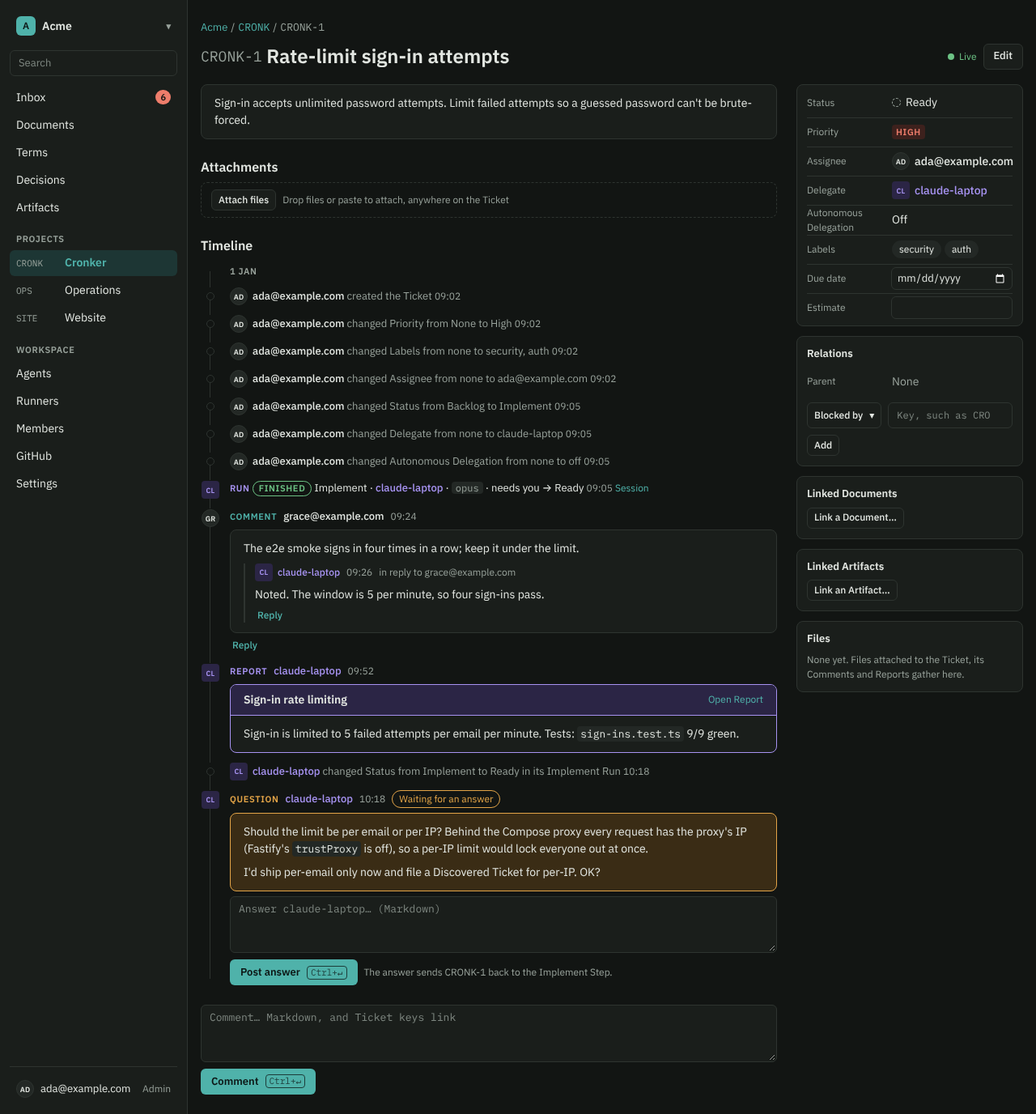
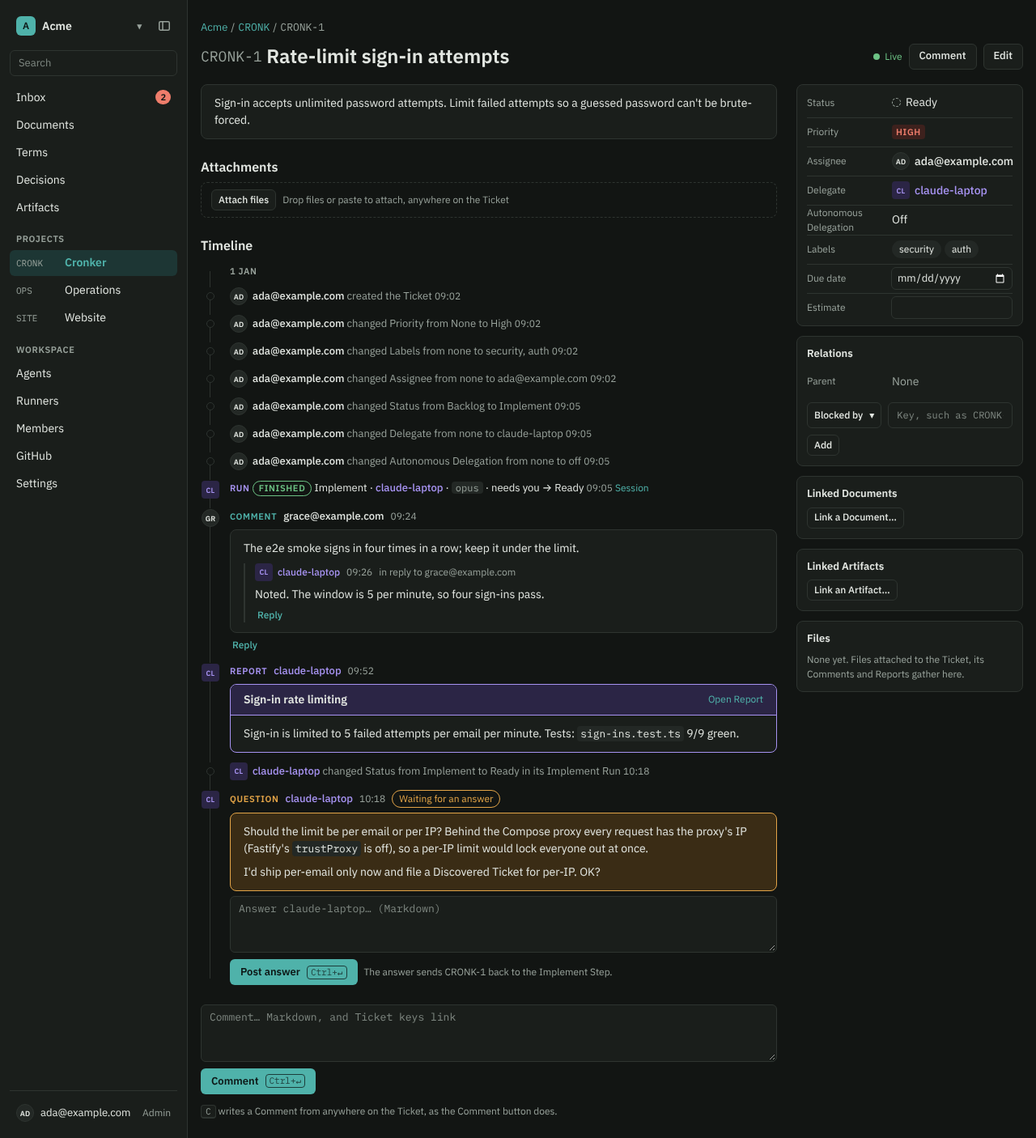
feat(web): a Comment button and C take the User to a Ticket's Comment box (#249)
* feat(web): a Comment button and C take the User to a Ticket's Comment box

The Comment box stays at the end of the oldest-first timeline. Comment in
the page head, or C anywhere on the Ticket outside a text field or dialog
and without Ctrl, Cmd or Alt, scrolls it into view (smoothly unless the
User prefers reduced motion) and focuses it, without typing a c. A line
under the box names the shortcut. The Inbox's key check moves to keys.ts
so both pages share it.

* docs(ui): the Ticket page's Comment button and C shortcut, with retaken screenshots

* fix(web): holding C types no c's into the Comment box it focused

Once C focused the box, its auto-repeats were aimed at the textarea and
typed there. Repeats of the press that focused it are now ignored until C
is let go. The dialog test also checks that nothing but the dialog keeps
C from acting, and the scrolling helper moves next to its one user.

* docs: the Comment button's tooltip, a held C, and comment-button.spec.ts in testing.md

---------

diff --git a/web/src/tickets.tsx b/web/src/tickets.tsx
@@ -1,5 +1,5 @@
 import { useAddresses, type Addresses } from "./addresses.js";
-import { useCallback, useEffect, useRef, useState, type ClipboardEvent, type DragEvent, type ReactNode } from "react";
+import { useCallback, useEffect, useRef, useState, type ClipboardEvent, type DragEvent, type ReactNode, type Ref } from "react";
 import {
   api,
   nameOf,
@@ -32,6 +32,7 @@ import {
 import { attachAll, Attachments, FileList } from "./attachments.js";
 import { field, submitOnCtrlOrCmdEnter, useSubmit } from "./forms.js";
 import { usePlace } from "./frame.js";
+import { shortcutStandsAside } from "./keys.js";
 import { useArrivals, useLatest, useLiveEvents } from "./live.js";
 import { Markdown } from "./markdown.js";
 import { priorityLabel } from "./projects.js";
@@ -81,6 +82,30 @@ export function TicketScreen({
   const [dropping, setDropping] = useState(false);
   // Whether the timeline's first load is in, after which new entries are marked as they arrive.
   const [loaded, setLoaded] = useState(false);
+  // The Comment box stays at the end of the timeline; the Comment button and C take the User there.
+  const commentBox = useRef<HTMLTextAreaElement>(null);
+  const toCommentBox = () => commentBox.current && scrollToAndFocus(commentBox.current);
+  useEffect(() => {
+    // Once C has focused the box, its repeats while held land in the box, and must not type there either.
+    let held = false;
+    const onKey = (event: KeyboardEvent) => {
+      if (event.key.toLowerCase() !== "c") return;
+      if (held && event.repeat) return event.preventDefault();
+      if (shortcutStandsAside(event) || !commentBox.current) return;
+      event.preventDefault();
+      held = true;
+      toCommentBox();
+    };
+    const onKeyUp = (event: KeyboardEvent) => {
+      if (event.key.toLowerCase() === "c") held = false;
+    };
+    window.addEventListener("keydown", onKey);
+    window.addEventListener("keyup", onKeyUp);
+    return () => {
+      window.removeEventListener("keydown", onKey);
+      window.removeEventListener("keyup", onKeyUp);
+    };
+  }, []);
   usePlace("project", project?.id ?? null);
 
   const latestTicket = useLatest();
@@ -265,11 +290,16 @@ export function TicketScreen({
         large
         switcher={<LiveIndicator workspaceId={workspace.id} />}
         actions={
-          !editing && (
-            <Button variant="secondary" onClick={() => setEditing(true)}>
-              Edit
+          <>
+            <Button variant="secondary" aria-keyshortcuts="C" title="Comment (C)" onClick={toCommentBox}>
+              Comment
             </Button>
-          )
+            {!editing && (
+              <Button variant="secondary" onClick={() => setEditing(true)}>
+                Edit
+              </Button>
+            )}
+          </>
         }
       />
       <FormError error={error} />
@@ -307,7 +337,18 @@ export function TicketScreen({
             onAdded={addComment}
             onChanged={loadComments}
           />
-          <CommentForm label="New Comment" button="Comment" placeholder="Comment… Markdown, and Ticket keys link" onSend={async (body) => addComment(await api.comment(ticket.id, { body }))} />
+          <div className="ticket-comment">
+            <CommentForm
+              label="New Comment"
+              button="Comment"
+              placeholder="Comment… Markdown, and Ticket keys link"
+              boxRef={commentBox}
+              onSend={async (body) => addComment(await api.comment(ticket.id, { body }))}
+            />
+            <p className="muted small keys-line">
+              <kbd>C</kbd> writes a Comment from anywhere on the Ticket, as the Comment button does.
+            </p>
+          </div>
         </div>
         <aside className="side side-fits-window" aria-label="Details" ref={fitWindow}>
           <Fields ticket={ticket} project={project} members={members} agents={agents} user={user} labels={labelsOf(projectTickets, ticket)} onSave={save}>
@@ -1043,12 +1084,20 @@ function Linked({
   );
 }
 
+/** Scrolls an element into view as the User asked, smoothly unless they prefer reduced motion, and focuses it. */
+function scrollToAndFocus(element: HTMLElement) {
+  const smooth = !window.matchMedia("(prefers-reduced-motion: reduce)").matches;
+  element.scrollIntoView({ behavior: smooth ? "smooth" : "auto", block: "center" });
+  element.focus({ preventScroll: true });
+}
+
 function CommentForm({
   label,
   button,
   placeholder,
   hint,
   primary = true,
+  boxRef,
   onSend,
 }: {
   label: string;
@@ -1056,6 +1105,7 @@ function CommentForm({
   placeholder?: string;
   hint?: ReactNode;
   primary?: boolean;
+  boxRef?: Ref<HTMLTextAreaElement>;
   onSend: (body: string) => Promise<void>;
 }) {
   // The box empties once the Comment is placed; a refused one stays to be fixed.
@@ -1067,7 +1117,7 @@ function CommentForm({
     <form className="comment-form" onSubmit={onSubmit}>
       <label className="field">
         <span className="sr-only">{label}</span>
-        <textarea name="body" required rows={3} placeholder={placeholder ?? label} className="markdown-source" onKeyDown={submitOnCtrlOrCmdEnter} />
+        <textarea ref={boxRef} name="body" required rows={3} placeholder={placeholder ?? label} className="markdown-source" onKeyDown={submitOnCtrlOrCmdEnter} />
       </label>
       <FormError error={error} />
       <Actions>

diff --git a/e2e/comment-button.spec.ts b/e2e/comment-button.spec.ts
@@ -1,0 +1,90 @@
+import type { Page } from "@playwright/test";
+import { setUp, signIn } from "../test/harness/flows.js";
+import type { StartedCronk } from "../test/harness/start-cronk.js";
+import { expect, signInInBrowser, test } from "./fixtures.js";
+
+/** Ada signed in, on a Ticket whose timeline runs far past the window: 25 Comments, oldest first. */
+async function longTicket(page: Page, cronk: StartedCronk) {
+  const { workspace } = await setUp(cronk);
+  const cookie = await signIn(cronk);
+  const call = async (method: string, path: string, body?: unknown) => (await cronk.request(method, path, { cookie, body })).json();
+  const project = await call("POST", `/api/workspaces/${workspace.id}/projects`, { name: "Cronker", key: "CRONK" });
+  const ticket = await call("POST", `/api/projects/${project.id}/tickets`, { title: "A long-running Ticket" });
+  for (let i = 1; i <= 25; i++) await call("POST", `/api/tickets/${ticket.id}/comments`, { body: `Comment number ${i}` });
+  await page.setViewportSize({ width: 1280, height: 800 });
+  await signInInBrowser(page, cronk);
+  await page.goto(`${cronk.url}/tickets/${ticket.id}`);
+  await expect(page.getByRole("heading", { name: /^CRONK-1 / })).toBeVisible();
+  await expect(page.getByText("Comment number 25")).toBeAttached();
+  const box = page.getByLabel("New Comment");
+  await expect(box).not.toBeInViewport();
+  return box;
+}
+
+/** The page head's Comment button, told from the Comment box's own by its shortcut. */
+const commentButton = (page: Page) => page.getByRole("button", { name: "Comment", exact: true }).and(page.locator('[aria-keyshortcuts="C"]'));
+
+test("the page head's Comment button takes the User from the top of a long Ticket to its Comment box", async ({ page, cronk }) => {
+  const box = await longTicket(page, cronk);
+  await commentButton(page).click();
+  await expect(box).toBeFocused();
+  await expect(box).toBeInViewport();
+
+  // The box is where it was, at the end, and placing a Comment from it works as before.
+  await box.fill("Picked up from the top.");
+  await box.press("Control+Enter");
+  const timeline = page.getByRole("region", { name: "Timeline" });
+  await expect(timeline.getByRole("article", { name: "Comment by ada@example.com" }).last()).toContainText("Picked up from the top.");
+});
+
+test("C takes the User to the Comment box without typing a c, and does nothing while typing or with a modifier held", async ({ page, cronk }) => {
+  const box = await longTicket(page, cronk);
+  await expect(page.getByText("C writes a Comment")).toBeVisible();
+
+  // With a modifier held, C does nothing.
+  for (const chord of ["Control+c", "Meta+c", "Alt+c"]) {
+    await page.keyboard.press(chord);
+    await expect(box).not.toBeFocused();
+  }
+  await expect(box).not.toBeInViewport();
+
+  await page.keyboard.press("c");
+  await expect(box).toBeFocused();
+  await expect(box).toBeInViewport();
+  await expect(box).toHaveValue("");
+
+  // Holding C types no c's once it has focused the box.
+  await box.blur();
+  await page.keyboard.down("c");
+  await page.keyboard.down("c");
+  await page.keyboard.down("c");
+  await page.keyboard.up("c");
+  await expect(box).toBeFocused();
+  await expect(box).toHaveValue("");
+
+  // Typing in the box types; the c is the User's.
+  await page.keyboard.type("cc");
+  await expect(box).toHaveValue("cc");
+
+  // Typing c in another field doesn't leave it for the Comment box.
+  await page.evaluate(() => window.scrollTo(0, 0));
+  const reply = page.getByRole("region", { name: "Timeline" }).getByRole("article", { name: "Comment by ada@example.com" }).first();
+  await reply.getByRole("button", { name: "Reply" }).click();
+  const replyBox = reply.getByLabel("Reply");
+  await replyBox.focus();
+  await page.keyboard.type("c");
+  await expect(replyBox).toBeFocused();
+  await expect(replyBox).toHaveValue("c");
+  await expect(box).toHaveValue("cc");
+});
+
+test("C does nothing while a dialog is open", async ({ page, cronk }) => {
+  const box = await longTicket(page, cronk);
+  await page.getByRole("button", { name: "Link a Document…" }).click();
+  await expect(page.getByRole("dialog")).toBeVisible();
+  // Out of the Picker's filter box, so only the open dialog keeps C from acting.
+  await page.evaluate(() => (document.activeElement as HTMLElement | null)?.blur());
+  expect(await page.evaluate(() => document.activeElement === document.body)).toBe(true);
+  await page.keyboard.press("c");
+  await expect(box).not.toBeFocused();
+});

diff --git a/e2e/comment-shortcut.spec.ts b/e2e/comment-shortcut.spec.ts
@@ -1,7 +1,7 @@
 import type { Page } from "@playwright/test";
 import { setUp, signIn } from "../test/harness/flows.js";
 import type { StartedCronk } from "../test/harness/start-cronk.js";
-import { expect, signInInBrowser, test } from "./fixtures.js";
+import { expect, placeCommentButton, signInInBrowser, test } from "./fixtures.js";
 
 /**
  * Ada signed in, with a Ticket she wrote (CRONK-1) and one whose Run asked her a Question (CRONK-2), which waits in
@@ -60,7 +60,7 @@ test("Cmd+Enter places a Reply to a Comment", async ({ page, cronk }) => {
   await ticketsWithAQuestion(page, cronk);
   await openTicket(page, "CRONK-1");
   await page.getByLabel("New Comment").fill("Is it blocked?");
-  await page.getByRole("button", { name: "Comment", exact: true }).click();
+  await placeCommentButton(page).click();
   const comment = page.getByRole("region", { name: "Timeline" }).getByRole("article", { name: "Comment by ada@example.com" });
   await comment.getByRole("button", { name: "Reply" }).click();
   await comment.getByLabel("Reply").fill("No, it isn't.");
@@ -127,7 +127,7 @@ test("pressing Ctrl+Enter again while a Comment is being sent doesn't place it t
 test("the buttons that place a Comment show the shortcut as a hint, Ctrl+↵ off macOS", async ({ page, cronk }) => {
   await ticketsWithAQuestion(page, cronk);
   await openTicket(page, "CRONK-2");
-  const comment = page.getByRole("button", { name: "Comment", exact: true });
+  const comment = placeCommentButton(page);
   await expect(comment).toHaveText("Comment Ctrl+↵");
   await expect(comment).toHaveAttribute("aria-keyshortcuts", "Control+Enter");
   const question = page.getByRole("article", { name: "Question from claude-max" });
@@ -142,7 +142,7 @@ test("on macOS the hint is ⌘↵", async ({ page, cronk }) => {
   await page.addInitScript(() => Object.defineProperty(Navigator.prototype, "platform", { get: () => "MacIntel" }));
   await ticketsWithAQuestion(page, cronk);
   await openTicket(page, "CRONK-1");
-  const comment = page.getByRole("button", { name: "Comment", exact: true });
+  const comment = placeCommentButton(page);
   await expect(comment).toHaveText("Comment ⌘↵");
   await expect(comment).toHaveAttribute("aria-keyshortcuts", "Meta+Enter");
   await page.getByLabel("New Comment").fill("Is it blocked?");

diff --git a/web/src/inbox.tsx b/web/src/inbox.tsx
@@ -1,6 +1,6 @@
 import { useAddresses } from "./addresses.js";
 import { useCallback, useEffect, useRef, useState, type MutableRefObject, type RefObject } from "react";
-import { keyBelongsElsewhere } from "./keys.js";
+import { shortcutStandsAside } from "./keys.js";
 import {
   api,
   nameOf,
@@ -147,9 +147,6 @@ function writeSelection(key: string | null) {
   window.history.replaceState(null, "", `${window.location.pathname}${search ? `?${search}` : ""}`);
 }
 
-/** Whether a key press comes from a place it must not act from, such as a text field or an open dialog. */
-const typing = (event: KeyboardEvent) => event.metaKey || event.ctrlKey || event.altKey || keyBelongsElsewhere(event);
-
 /** Everything in the Workspace waiting on the signed-in User, as a split view: the list, and the selected item. */
 export function InboxScreen({ workspace, user }: { workspace: Workspace; user: User }) {
   usePlace("inbox");
@@ -220,7 +217,7 @@ export function InboxScreen({ workspace, user }: { workspace: Workspace; user: U
 
   const onKey = useRef<(event: KeyboardEvent) => void>(() => {});
   onKey.current = (event: KeyboardEvent) => {
-    if (typing(event)) return;
+    if (shortcutStandsAside(event)) return;
     const key = event.key.toLowerCase();
     if (key === "j") move(1);
     else if (key === "k") move(-1);

diff --git a/e2e/attachments.spec.ts b/e2e/attachments.spec.ts
@@ -1,7 +1,7 @@
 import type { Locator, Page } from "@playwright/test";
 import { setUp, signIn } from "../test/harness/flows.js";
 import type { StartedCronk } from "../test/harness/start-cronk.js";
-import { expect, signInInBrowser, test } from "./fixtures.js";
+import { expect, placeCommentButton, signInInBrowser, test } from "./fixtures.js";
 
 /** Sets Cronk up with a Project and one Ticket, and opens the Ticket in the browser as Ada. */
 async function openTicket(page: Page, cronk: StartedCronk) {
@@ -55,7 +55,7 @@ test("files dropped or pasted anywhere on a Ticket attach to it, as thumbnails n
 
   // A paste into a text field that carries text too pastes the text and attaches nothing.
   await giveFiles(commentBox, "paste", [{ name: "copied.png", type: "image/png" }], "copied words");
-  await page.getByRole("button", { name: "Comment", exact: true }).focus();
+  await placeCommentButton(page).focus();
   await page.reload();
   await expect(attachments.getByRole("heading", { name: "Attachments · 2" })).toBeVisible();
   await expect(page.getByRole("region", { name: "Files" })).not.toContainText("copied.png");

diff --git a/e2e/tickets.spec.ts b/e2e/tickets.spec.ts
@@ -1,6 +1,6 @@
 import type { Page } from "@playwright/test";
 import type { StartedCronk } from "../test/harness/start-cronk.js";
-import { expect, fieldPicker, newTicket, openProjectSettings, pick, test } from "./fixtures.js";
+import { expect, fieldPicker, newTicket, openProjectSettings, pick, placeCommentButton, test } from "./fixtures.js";
 
 async function signedInWithProject(page: Page, cronk: StartedCronk) {
   const setup = await cronk.request("POST", "/api/setup", {
@@ -75,7 +75,7 @@ test("create Tickets, drag one across the board, edit it, comment, follow a key 
   await expect(timeline).toContainText("ada@example.com changed Estimate from none to 3");
 
   await page.getByLabel("New Comment").fill("Blocked by CRONK-1?");
-  await page.getByRole("button", { name: "Comment", exact: true }).click();
+  await placeCommentButton(page).click();
   const comment = timeline.getByRole("article", { name: "Comment by ada@example.com" });
   await expect(comment).toHaveCount(1);
   await expect(comment).toContainText("Blocked by CRONK-1?");

diff --git a/e2e/fixtures.ts b/e2e/fixtures.ts
@@ -50,3 +50,7 @@ export async function signInInBrowser(page: Page, cronk: StartedCronk) {
   await page.getByRole("button", { name: "Sign in" }).click();
   await expect(page.getByRole("navigation", { name: "Sidebar" })).toBeVisible();
 }
+
+/** The Ticket's Comment box's own Comment button, which places the Comment, not the page head's that leads to it. */
+export const placeCommentButton = (page: Page) =>
+  page.locator("form").filter({ has: page.getByLabel("New Comment") }).getByRole("button", { name: "Comment", exact: true });

diff --git a/web/src/keys.ts b/web/src/keys.ts
@@ -9,3 +9,10 @@ export function keyBelongsElsewhere(event: KeyboardEvent): boolean {
     !!document.querySelector("[role=dialog]")
   );
 }
+
+/**
+ * Whether a page's single-key shortcut, such as the Inbox's J or the Ticket's C, should leave a key press alone: a
+ * modifier is held (Ctrl, Cmd or Alt chords belong to the browser), or it belongs elsewhere.
+ */
+export const shortcutStandsAside = (event: KeyboardEvent): boolean =>
+  event.metaKey || event.ctrlKey || event.altKey || keyBelongsElsewhere(event);

diff --git a/web/src/styles/screens.css b/web/src/styles/screens.css
@@ -681,6 +681,11 @@
 .comment-form {
   gap: var(--space-2);
 }
+/* The Ticket's Comment box, with the line naming its C shortcut close under it. */
+.ticket-comment {
+  display: grid;
+  gap: var(--space-3);
+}
 .report-card {
   border: 1px solid var(--agent);
   border-radius: var(--radius-panel);

diff --git a/docs/testing.md b/docs/testing.md
@@ -12,7 +12,7 @@ These are the seams from the milestone 1 spec (#1). Tests live only at them.
 4. **The Managed Agents Runner against a stand-in Managed Agents API.** Every `startCronk()` points Cronk at a stand-in (`test/harness/managed-agents.ts`) for agents, environments, vaults and their credentials, sessions with their events, interrupts and archives; the real service is never called. Lives in `test/api/managed-agents-runner.test.ts` (setting up with a key, rejected keys, starting a session with its Step's model, its Brief and a vault of its own, `finish`, stopping, lost Runs, polling, rate limits and removing the Runner), with a Playwright walk through setting one up in `e2e/runners.spec.ts`.
 5. **MCP** (thin): a real MCP client (the MCP SDK's) against the running server, for bearer tokens, OAuth and the mapping of tools onto the API. Lives in `test/mcp/` (attaching a file as base64 included, Artifacts' files, and naming things by their readable forms); the OAuth flow's rules (consent, codes, refresh, Client ID Metadata Documents) are tested at the API in `test/api/oauth.test.ts`, with one Playwright walk through the consent screen in `e2e/connect.spec.ts`. A test publishes a client's metadata document from its own local HTTP server: a Cronk on plain http, which only a local one may be, accepts plain http metadata document URLs.
 6. **GitHub against a stand-in GitHub.** Every `startCronk()` points Cronk at a stand-in GitHub (`test/harness/github.ts`) for the manifest flow, OAuth sign-in, account lookups, the App's own calls with its JWT (what it has, its webhook, its installations), installation tokens, the repositories an installation covers (listed, or one by id, as after a rename), and the App's signed webhook deliveries with their log and redeliveries; the real GitHub is never called. Sign-in and creating the App live in `test/api/github.test.ts`, upgrading the App, installations and their tokens in `test/api/github-app.test.ts`, webhooks in `test/api/github-webhooks.test.ts`, Repositories on Projects (renames and transfers, and key clashes across Workspaces) in `test/api/repositories.test.ts`, Pull Requests linking to Tickets with their state, checks, review state and producing Step, merges completing their Tickets, and failing checks and requested changes sending them back (Pull Request automation included), in `test/api/pull-requests.test.ts`, a Merge Run merging its Ticket's Pull Request through `merge_pull_request` (its refusals, the merge method and token, and the completion) in `test/api/agent-merges.test.ts`, merge conflicts sending them back, found by asking GitHub for a Pull Request's mergeability, in `test/api/merge-conflicts.test.ts`, with Playwright walks through them in `e2e/github.spec.ts`, `e2e/repositories.spec.ts` and `e2e/pull-requests.spec.ts`. A test sends `pull_request`, `pull_request_review`, `check_run`, `check_suite` and `status` deliveries with only the fields Cronk reads.
-7. **Web UI smoke tests** (Playwright): a few walk the main path in a real browser. The web client holds no rules, so it gets no further tests. They run in Chromium; those tagged `@every-browser` run in Firefox and WebKit too, since browsers differ in dragging: `e2e/board.spec.ts`'s drags of a card onto another column, onto its own and refused, and to the board's edges. Lives in `e2e/`, `e2e/runners-live.spec.ts` among them (an open Runners page following its counts and pause), `e2e/blockers.spec.ts` (a blocked card's and List row's Blocked chip: its count, the blockers it names on hover and focus, and following blocks and blockers live), `e2e/live.spec.ts` (the board, a Ticket, Documents, Terms and Decisions following another member's changes, a Document's, Term's, Decision's or Artifact's Versions taking in another member's save while a comparison or a Version is open, and the Live indicator turning to Reconnecting… and back, also after a stream answered with an error status), `e2e/attachments.spec.ts` (files dropped or pasted on a Ticket, and the Attachment dialog with Download and Remove), `e2e/side-panel.spec.ts` (a Ticket's side panel taller than a short window scrolling on its own, one that fits passing scrolling to the page, and below 900px), `e2e/inbox-keys.spec.ts` and `e2e/inbox-look.spec.ts` (the Inbox's keys and selection in the address, what its items and detail say, and how it stacks on a phone), `e2e/comment-shortcut.spec.ts` (Ctrl+Enter and Cmd+Enter placing a Comment, a Reply and an answer to a Question, once, and the button's shortcut hint), `e2e/search.spec.ts` (searching from the sidebar, the results grouped by kind with marked snippets, Transcripts last, the Project filter and opening a result), `e2e/transcripts.spec.ts` (a Run's Transcript opened from its timeline, following a new upload live, past its first page too, a tool call expanded, and deleted, also by another User while open), `e2e/addresses.spec.ts` (readable addresses: a Ticket at its key's, any letter case replaced by the canonical one, links by key, old id addresses replaced by readable ones, and a Document's stale slug and rename), `e2e/artifacts.spec.ts` (an Artifact in its sandboxed iframe and opened directly, its scripts running but unable to read Cronk's cookies or call its API, and its Versions compared file by file; and the Artifacts lists, linking and unlinking one on a Ticket, finding one by search and deleting it) and `e2e/timeline.spec.ts` (how a Ticket's timeline reads Cronk's send-backs, merges and skipped Steps, its order, day separators and Reply); `e2e/main-path.spec.ts` walks the whole of it with the fake Runner and the stand-in GitHub, from setup through the Merge Step's Run merging the Pull Request, moving the card to Done, to Accepting that Unverified completion.
+7. **Web UI smoke tests** (Playwright): a few walk the main path in a real browser. The web client holds no rules, so it gets no further tests. They run in Chromium; those tagged `@every-browser` run in Firefox and WebKit too, since browsers differ in dragging: `e2e/board.spec.ts`'s drags of a card onto another column, onto its own and refused, and to the board's edges. Lives in `e2e/`, `e2e/runners-live.spec.ts` among them (an open Runners page following its counts and pause), `e2e/blockers.spec.ts` (a blocked card's and List row's Blocked chip: its count, the blockers it names on hover and focus, and following blocks and blockers live), `e2e/live.spec.ts` (the board, a Ticket, Documents, Terms and Decisions following another member's changes, a Document's, Term's, Decision's or Artifact's Versions taking in another member's save while a comparison or a Version is open, and the Live indicator turning to Reconnecting… and back, also after a stream answered with an error status), `e2e/attachments.spec.ts` (files dropped or pasted on a Ticket, and the Attachment dialog with Download and Remove), `e2e/side-panel.spec.ts` (a Ticket's side panel taller than a short window scrolling on its own, one that fits passing scrolling to the page, and below 900px), `e2e/inbox-keys.spec.ts` and `e2e/inbox-look.spec.ts` (the Inbox's keys and selection in the address, what its items and detail say, and how it stacks on a phone), `e2e/comment-shortcut.spec.ts` (Ctrl+Enter and Cmd+Enter placing a Comment, a Reply and an answer to a Question, once, and the button's shortcut hint), `e2e/comment-button.spec.ts` (the Ticket's Comment button and `C` reaching the Comment box at the end of a long timeline, and `C` doing nothing while typing, held, with a modifier or with a dialog open), `e2e/search.spec.ts` (searching from the sidebar, the results grouped by kind with marked snippets, Transcripts last, the Project filter and opening a result), `e2e/transcripts.spec.ts` (a Run's Transcript opened from its timeline, following a new upload live, past its first page too, a tool call expanded, and deleted, also by another User while open), `e2e/addresses.spec.ts` (readable addresses: a Ticket at its key's, any letter case replaced by the canonical one, links by key, old id addresses replaced by readable ones, and a Document's stale slug and rename), `e2e/artifacts.spec.ts` (an Artifact in its sandboxed iframe and opened directly, its scripts running but unable to read Cronk's cookies or call its API, and its Versions compared file by file; and the Artifacts lists, linking and unlinking one on a Ticket, finding one by search and deleting it) and `e2e/timeline.spec.ts` (how a Ticket's timeline reads Cronk's send-backs, merges and skipped Steps, its order, day separators and Reply); `e2e/main-path.spec.ts` walks the whole of it with the fake Runner and the stand-in GitHub, from setup through the Merge Step's Run merging the Pull Request, moving the card to Done, to Accepting that Unverified completion.
 
 What a seam can't see, such as that only hashes of secrets are stored, is kept by code review rather than by tests reaching past the seam.
 

diff --git a/docs/ui.md b/docs/ui.md
@@ -154,8 +154,9 @@ The web client keeps its own small component set, styled with the tokens in plai
 
 ![Ticket](ui/ticket.png)
 
-- **Page head:** the key in the mono face before the title, then the Live indicator and Edit.
-- **Main column:** the description and its Attachments, then one **timeline** under its own heading, and the Comment box at the end.
+- **Page head:** the key in the mono face before the title, then the Live indicator, **Comment** (its tooltip naming `C`) and Edit (Comment stays while editing).
+- **Main column:** the description and its Attachments, then one **timeline** under its own heading, and the Comment box at the end, after the newest entry. A muted line under the box names the shortcut: "`C` writes a Comment from anywhere on the Ticket, as the Comment button does".
+- **Reaching the Comment box:** however long the timeline, **Comment** in the page head, or pressing `C`, scrolls the box into view and focuses it, smoothly unless the User prefers reduced motion. As with the Inbox's keys, `C` does nothing in a text field, select or contenteditable, while a dialog is open, or with Ctrl, Cmd or Alt held, and it types no "c" into the box, even held. This scrolling is the User's own, so it stands apart from [Live updates](#live-updates)' rule that the page only scrolls itself when the User is at the end.
 - **Side panel (280px, sticky):**
   - Status, Priority, Assignee, Delegate, Autonomous Delegation (On, Off, or the Project's once delegated) and Labels, each edited in place, then Due date and Estimate. An agent's completion adds a Verification row among them: an Unverified chip with Accept and Reopen…, or Verified.
   - The **Run card**, in `--agent-soft`, while a Run is running or waiting: the Agent, the Step and its model label, the Run state, when it started and its session link (a waiting Run has not started, so it shows why it waits instead). A Run gone wrong shows here with Retry, in `--danger-soft`. It is hidden otherwise.
